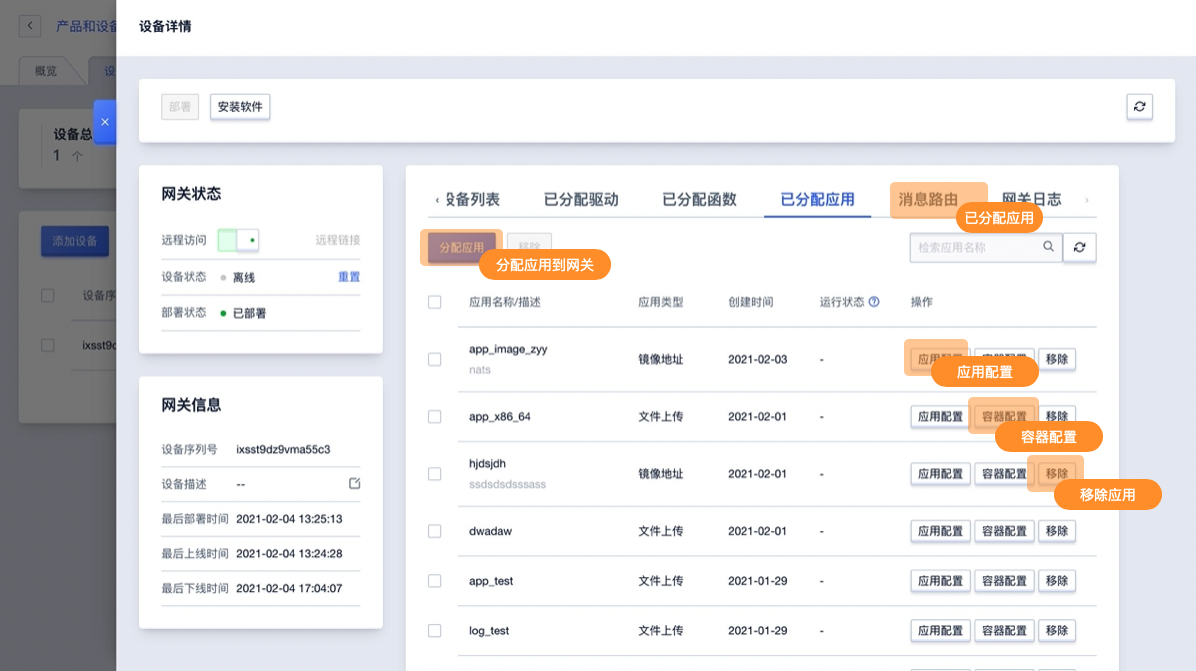
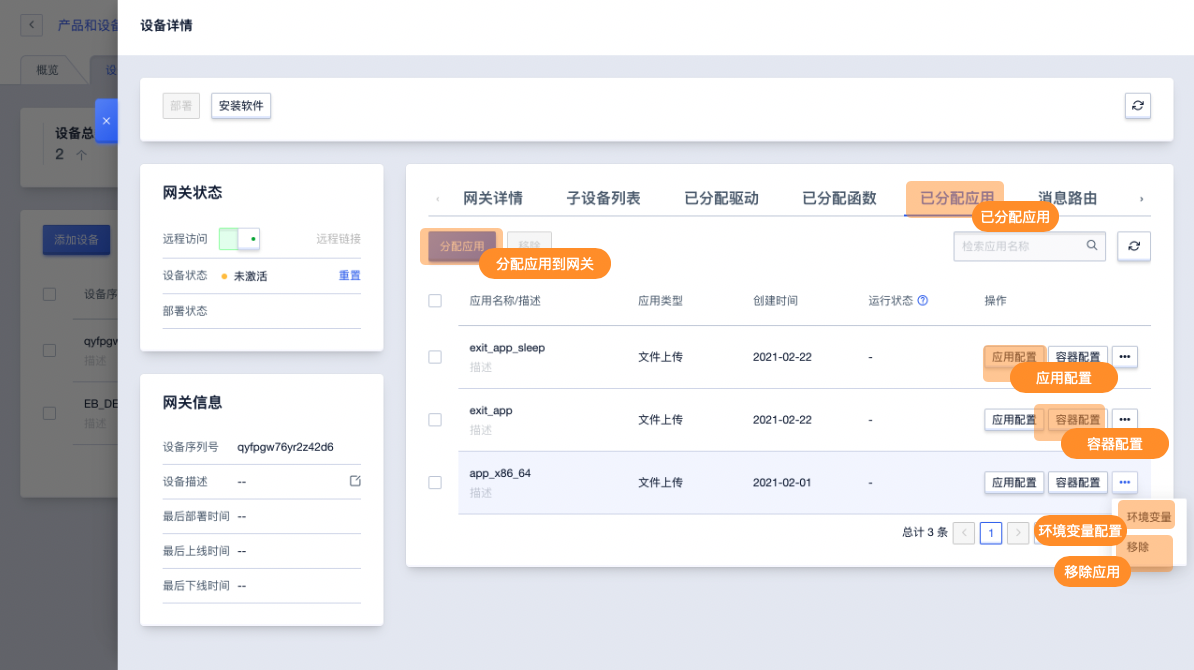
add_docs

diff --git a/控制台操作指南/网关管理/硬件序列号.md b/控制台操作指南/网关管理/硬件序列号.md
@@ -1,0 +1,82 @@
+# 硬件序列号
+
+为方便网关硬件批量出货，IoT Edge支持绑定硬件序列号功能。网关硬件安装统一的网关软件（相同的网关软件镜像），网关联网后可以上报自己的MAC地址作为硬件序列号从IoT平台获取网关“三要素”并连接IoT平台。
+
+
+
+## 一、功能原理
+
+![修改函数](../../images/硬件序列号-1.png)
+
+**使用流程：**
+
+1. IoT平台绑定网关的硬件序列号
+2. 使用批量安装脚本安装软件
+3. 网关激活并连接
+
+**网关激活连接原理**
+
+1. 网关获取eth0 MAC地址作为硬件序列号上报IoT平台
+2. IoT平台返回硬件序列号对应的网关设备“三要素”
+3. 网关以网关设备“三要素”激活并连接
+
+
+
+
+
+## 操作指南
+
+### 网关绑定硬件序列号
+
+进入网关详情页面找到添加硬件序列号功能添加即可
+
+![修改函数](../../images/硬件序列号-2.png)
+
+![修改函数](../../images/硬件序列号-3.png)
+
+
+
+### 安装网关软件
+
+1. 进入网关产品设备列表中找到批量安装功能。注意，不是在网关详情中的安装软件功能。
+
+2. 填写安装信息并获取安装脚本
+
+   录入信息说明：
+
+   * CPU架构：【必填】可选ARMv7、ARMv8_64、X86_64
+   * 适用软件版本：【必填】
+   * 操作系统版本：【必填】
+   * 运行模式：【必填】
+   * 本地控制台密码【必填】：8-20位字母数数字组合 默认为iotstack
+
+3. 在目标网关中安装软件即可。系统会自动下载安装软件包，并启动IoT Edge运行。运行成功后可在控制台查看网关在线状态为 在线。
+
+![图片](../../images/硬件序列号-10.png)
+
+![图片](../../images/硬件序列号-8.png)
+
+![图片](../../images/硬件序列号-9.png)
+
+![图片](../../images/安装软件-5.png)
+
+
+
+### 查询硬件序列号
+
+在信息查询（admin账号为平台信息）中找到硬件序列号功能，即可查询已绑定硬件序列号的网关列表
+
+**说明：** 硬件序列号列表只展示当前账号下拥有权限的项目中所有设备中绑定了硬件序列号的网关设备列表。
+
+![图片](../../images/硬件序列号-4.png)
+
+![图片](../../images/硬件序列号-5.png)
+
+### 解绑硬件序列号
+
+1. 在硬件已绑定硬件序列号的网关详情中可解绑
+2. 在硬件序列号查询功能中可解绑
+
+![图片](../../images/硬件序列号-7.png)
+
+![图片](../../images/硬件序列号-8.png)

diff --git a/_sidebar.md b/_sidebar.md
@@ -30,7 +30,7 @@
       * [发布到Kafka](/uiot-stack/控制台操作指南/规则引擎/添加动作/发布到Kafka)
       * [发布到HTTP](/uiot-stack/控制台操作指南/规则引擎/添加动作/发布到HTTP)
       * [发布到Topic](/uiot-stack/控制台操作指南/规则引擎/添加动作/发布到Topic)
-  * 网关管理
+  * 边缘网关管理
     * [网关功能概述](/uiot-stack/控制台操作指南/网关管理/网关功能概述)
     * 软件安装
       * [软件安装](/uiot-stack/控制台操作指南/网关管理/软件安装/软件安装)
@@ -52,6 +52,7 @@
       * [概览](/uiot-stack/控制台操作指南/网关管理/消息路由/概览)
       * [消息路由配置详解](/uiot-stack/控制台操作指南/网关管理/消息路由/消息路由配置详解)
     * [网关部署](/uiot-stack/控制台操作指南/网关管理/网关部署)
+    * [硬件序列号](/uiot-stack/控制台操作指南/网关管理/硬件序列号)
     * [远程访问](/uiot-stack/控制台操作指南/网关管理/远程访问)
     * [网关日志](/uiot-stack/控制台操作指南/网关管理/网关日志)
     * 本地控制台操作指南
@@ -59,7 +60,7 @@
       * [操作指南](/uiot-stack/控制台操作指南/网关管理/本地控制台操作指南/操作指南)
   * [监控视图](/uiot-stack/控制台操作指南/监控视图)
   * [日志管理](/uiot-stack/控制台操作指南/日志管理)
-* IoT平台开发指南
+* IoT平台API列表
   * [API调用规范及示例](/uiot-stack/IoT平台开发指南/API调用规范及示例)
   * [API列表](/uiot-stack/IoT平台开发指南/API列表)
   * [产品及设备管理](/uiot-stack/IoT平台开发指南/产品及设备管理)
@@ -67,7 +68,7 @@
   * [数据解析](/uiot-stack/IoT平台开发指南/数据解析)
   * [消息通信](/uiot-stack/IoT平台开发指南/消息通信)
   * [规则引擎](/uiot-stack/IoT平台开发指南/规则引擎)
-  * 网关管理
+  * 边缘网关管理
     * [网关及子设备](/uiot-stack/IoT平台开发指南/网关管理/网关及子设备)
     * [安装及部署](/uiot-stack/IoT平台开发指南/网关管理/安装及部署)
     * [设备驱动与接入](/uiot-stack/IoT平台开发指南/网关管理/设备驱动与接入)

diff --git a/控制台操作指南/网关管理/本地应用/控制台操作指南.md b/控制台操作指南/网关管理/本地应用/控制台操作指南.md
@@ -52,6 +52,18 @@
 
 ![分配函数](../../../images/本地应用-8.png)
 
+### 环境变量配置
+
+**1、在【已分配应用列表】找到需要配置的应用，点击【环境变量】**
+
+**2、在环境变量配置功能中进行配置**
+
+![分配函数](../../../images/本地应用-9.png)
+
+
+
+
+
 ### 修改已分配应用
 
 **在【已分配应用列表】找到需要修改的应用【修改】**

diff --git a/控制台操作指南/网关管理/本地控制台操作指南/操作指南.md b/控制台操作指南/网关管理/本地控制台操作指南/操作指南.md
@@ -219,6 +219,12 @@
 
 ![](../../../images/本地控制台-16.png)
 
+### 5、应用操作-环境变量配置
+
+在环境变量配置中录入针对当前应用的环境变量配置。
+
+![](../../../images/本地控制台-22.png)
+
 
 
 ## 消息路由

diff --git a/控制台操作指南/网关管理/软件安装/软件安装.md b/控制台操作指南/网关管理/软件安装/软件安装.md
@@ -95,8 +95,6 @@ IoT Edge的安装以及正常运行需要依赖于wget、unzip、python、sshd/d
 
 
 
-**查看网关运行状态**
-
 
 
 ### 2、停用IoT Edge

diff --git a/控制台操作指南/网关管理/网关功能概述.md b/控制台操作指南/网关管理/网关功能概述.md
@@ -1,5 +1,3 @@
-
-
 # 网关功能概述
 
 
